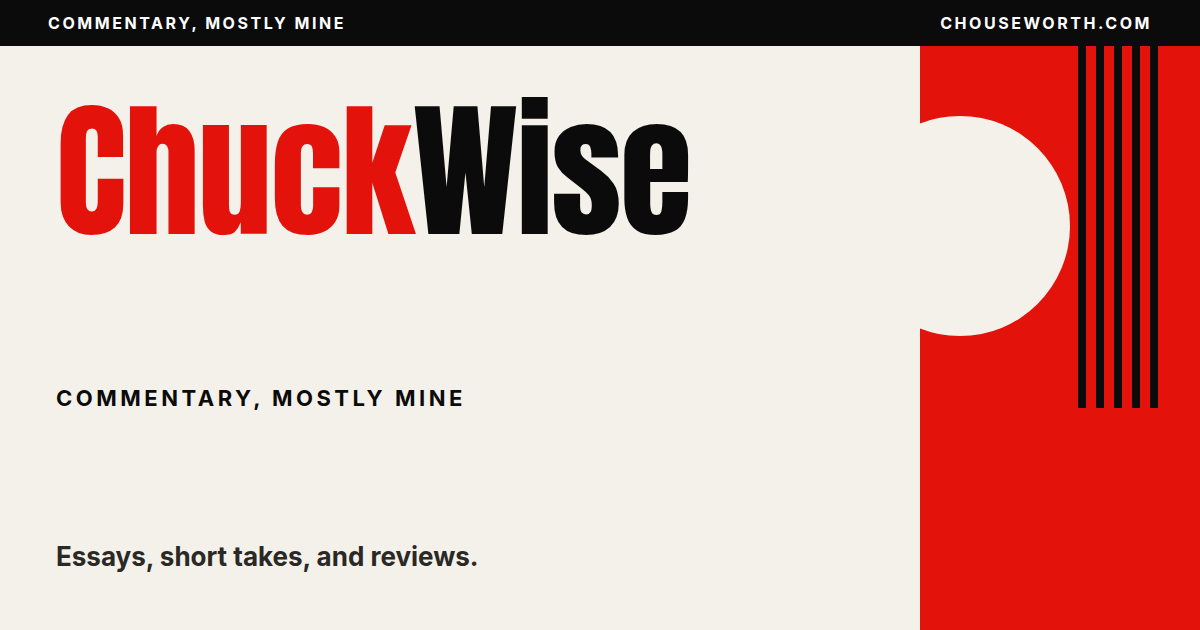
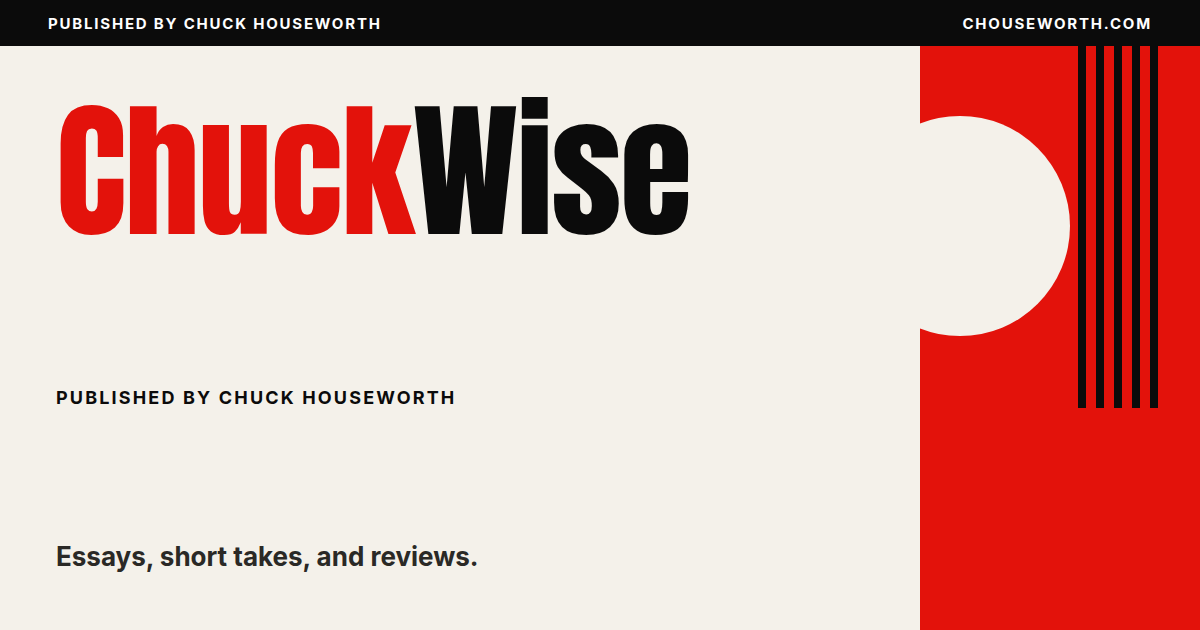
Retitle the magazine and put About Chuck in the nav.
The tagline is now “Published by Chuck Houseworth” in the masthead, footer, titles, and feeds. About Chuck sits on the section row, before Subscribe, with the photo beside it when chuck.jpg is present.

Changed region(s): [[0.0308, 0.6032, 0.4008, 0.6635], [0.0308, 0.0302, 0.3392, 0.0603], [0.7708, 0.0302, 0.9558, 0.0603]]

diff --git a/src/styles/global.css b/src/styles/global.css
@@ -94,10 +94,11 @@ button { font: inherit; color: inherit; background: none; }
   color: inherit;
 }
 .title .the { color: var(--red); }
-.mast-tag { text-align: right; padding-bottom: 14px; max-width: 16ch; }
+.mast-tag { text-align: right; padding-bottom: 14px; line-height: 1.35; }
 
 nav.main { border-bottom: 2px solid var(--ink); }
 nav.main .wrap { display: flex; align-items: center; justify-content: space-between; gap: 20px; height: 56px; }
+.nav-end { display: flex; align-items: center; gap: 22px; flex: none; }
 nav.main ul { display: flex; gap: clamp(16px, 2.6vw, 40px); list-style: none; }
 nav.main a {
   font-family: var(--sans);
@@ -107,6 +108,12 @@ nav.main a {
   text-transform: uppercase;
   position: relative;
   padding: 4px 0;
+  white-space: nowrap;
+}
+nav.main a.nav-about {
+  display: inline-flex;
+  align-items: center;
+  gap: 8px;
 }
 nav.main a:hover { color: var(--red); }
 nav.main a[aria-current='page'] { color: var(--red); }
@@ -130,30 +137,15 @@ nav.main a[aria-current='page']::after {
 }
 .subscribe:hover { background: #cf1009; }
 
-.author-line {
-  display: flex;
-  align-items: center;
-  gap: 14px;
-  padding-top: 22px;
-}
 .author-photo {
-  width: 52px;
-  height: 52px;
+  width: 28px;
+  height: 28px;
   border-radius: 50%;
   object-fit: cover;
   border: 2px solid var(--ink);
   flex: none;
   background: var(--paper);
 }
-.author-line a {
-  font-weight: 800;
-  font-size: 12px;
-  letter-spacing: 0.16em;
-  text-transform: uppercase;
-  border-bottom: 3px solid var(--red);
-  padding-bottom: 2px;
-}
-.author-line a:hover { color: var(--red); }
 
 .hero { border-bottom: 2px solid var(--ink); }
 .hero .wrap { display: block; }
@@ -860,14 +852,16 @@ footer .wrap { padding-top: 64px; padding-bottom: 30px; }
     border-top: 1px solid var(--ink);
     font-size: 10px;
   }
-  .author-line { padding-top: 18px; }
-  .author-photo { width: 44px; height: 44px; }
-  nav.main .wrap { height: auto; padding-top: 12px; padding-bottom: 12px; flex-wrap: wrap; }
+  .author-photo { width: 26px; height: 26px; }
+  nav.main .wrap { height: auto; padding-top: 12px; padding-bottom: 12px; flex-wrap: nowrap; gap: 14px; }
+  .nav-end { gap: 0; }
   nav.main ul {
+    flex: 1;
+    min-width: 0;
     flex-wrap: nowrap;
     overflow-x: auto;
     gap: 18px;
-    width: 100%;
+    width: auto;
     padding-bottom: 4px;
     scrollbar-width: none;
     -webkit-mask-image: linear-gradient(90deg, #000 82%, transparent);

diff --git a/scripts/og-card.html b/scripts/og-card.html
@@ -16,13 +16,13 @@
   * { margin: 0; padding: 0; box-sizing: border-box; }
   html, body { width: 1200px; height: 630px; overflow: hidden; background: #f4f1ea; }
   body { font-family: Inter, sans-serif; color: #0b0b0b; }
-  .bar { height: 46px; background: #0b0b0b; color: #fff; display: flex; align-items: center; justify-content: space-between; padding: 0 48px; font-weight: 700; font-size: 16px; letter-spacing: 0.16em; text-transform: uppercase; }
+  .bar { height: 46px; background: #0b0b0b; color: #fff; display: flex; align-items: center; justify-content: space-between; padding: 0 48px; font-weight: 700; font-size: 15px; letter-spacing: 0.12em; text-transform: uppercase; }
   .dot { color: #e3120b; }
   .stage { height: 584px; display: grid; grid-template-columns: 1fr 280px; }
   .copy { padding: 64px 56px 56px; display: flex; flex-direction: column; justify-content: space-between; }
   h1 { font-family: Anton, Impact, sans-serif; font-weight: 400; font-size: 148px; line-height: 0.84; letter-spacing: -0.01em; }
   h1 span { color: #e3120b; }
-  .tagline { margin-top: 22px; font-weight: 700; letter-spacing: 0.16em; text-transform: uppercase; font-size: 22px; }
+  .tagline { margin-top: 22px; font-weight: 700; letter-spacing: 0.12em; text-transform: uppercase; font-size: 18px; }
   .desc { max-width: 640px; font-size: 26px; line-height: 1.35; font-weight: 500; color: #2a2926; }
   .art { background: #e3120b; position: relative; overflow: hidden; }
   .circle { position: absolute; width: 220px; height: 220px; border-radius: 50%; background: #f4f1ea; left: -70px; top: 70px; }
@@ -30,11 +30,11 @@
 </style>
 </head>
 <body>
-  <div class="bar"><span>Commentary, mostly mine</span><span>chouseworth.com</span></div>
+  <div class="bar"><span>Published by Chuck Houseworth</span><span>chouseworth.com</span></div>
   <div class="stage">
     <div class="copy">
       <h1><span>Chuck</span>Wise</h1>
-      <p class="tagline">Commentary, mostly mine</p>
+      <p class="tagline">Published by Chuck Houseworth</p>
       <p class="desc">Essays, short takes, and reviews.</p>
     </div>
     <div class="art" aria-hidden="true"><div class="circle"></div><div class="bars"></div></div>

diff --git a/src/lib/site.ts b/src/lib/site.ts
@@ -1,10 +1,9 @@
 export const site = {
   name: 'ChuckWise',
   url: 'https://chouseworth.com',
-  description:
-    'A personal magazine of essays, short takes, and reviews by Chuck Houseworth. Commentary, mostly mine.',
+  description: 'A personal magazine of essays, short takes, and reviews. Published by Chuck Houseworth.',
   author: 'Chuck Houseworth',
-  tagline: 'Commentary, mostly mine',
+  tagline: 'Published by Chuck Houseworth',
   locale: 'en_US',
   /**
    * Cusdis app id from https://cusdis.com. Leave this empty and comment

diff --git a/README.md b/README.md
@@ -83,7 +83,7 @@ cusdisAppId: 'paste-the-app-id-here',
 
 ## Your photo
 
-Save a picture of yourself as `public/images/chuck.jpg`. The front page shows it as a small round photo next to “About Chuck,” which links to the About page. If that file is missing, the photo is left out. There is no broken image. The About Chuck link stays.
+Save a picture of yourself as `public/images/chuck.jpg`. The nav shows it as a small round photo next to “About Chuck,” which links to the About page. If that file is missing, the photo is left out. There is no broken image. The About Chuck link stays.
 
 ## Get posts from the vault into content/
 
